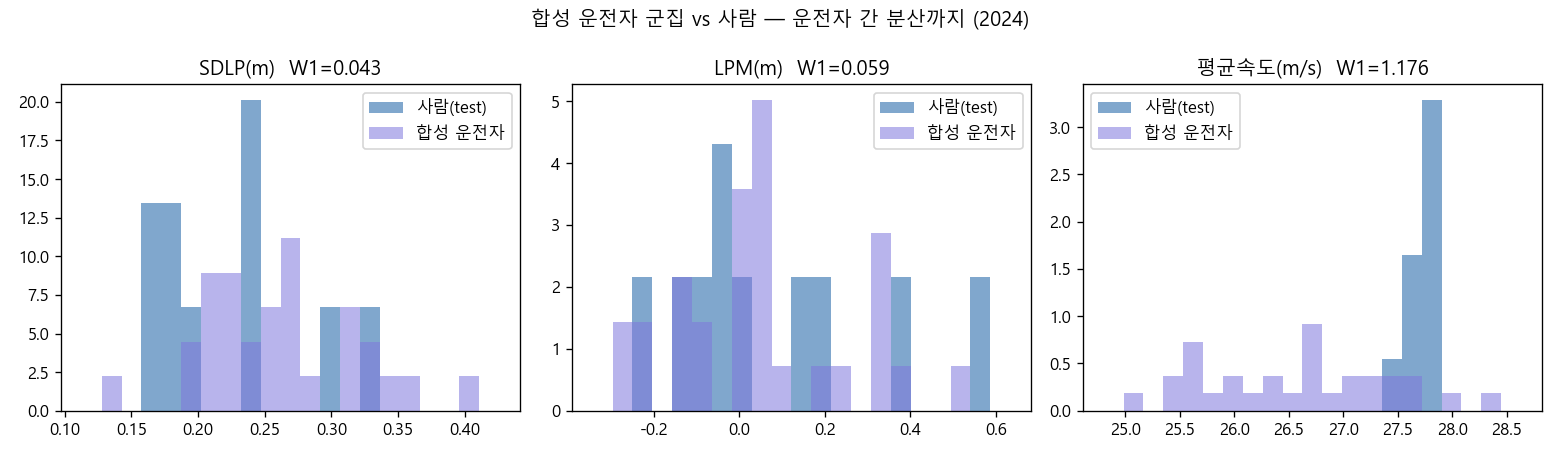
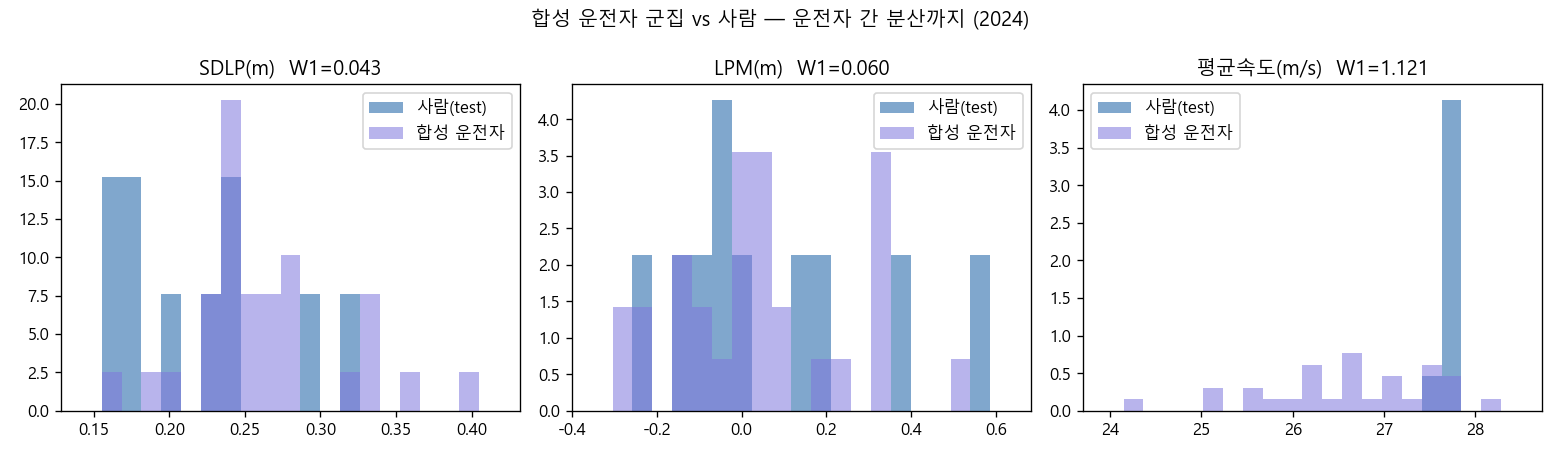
Speed-axis calibration attempts documented; revert to stable RL config
- Two attempted fixes (w_v 10x, v_ref +/-15% augmentation) both destabilized PPO -> reverted
- Root cause: single-speed-regime training data makes the policy ignore the v_ref channel
- Good state reproduced exactly (seed determinism): RL-sigma SDLP 0.262, population W1 0.043/0.060
- Speed W1 ~1.12 accepted as documented v1 limitation; proper fix = multi-speed-regime data (v2)

diff --git a/scripts/19_virtual_drivers.py b/scripts/19_virtual_drivers.py
@@ -84,6 +84,21 @@ def main():
     def sdlp_to_alpha(s):
         return float(np.clip(np.interp(s, curve, alphas), alphas[0], alphas[-1]))
 
+    # ---- speed-bias calibration (val): measured under the SAME stochastic conditions as
+    #      the population run (steering noise makes the accel head brake slightly on average;
+    #      a deterministic measurement misses this ~4% bias). ----
+    set_temp(1.0)
+    env_v = DrivingEnv(val_roads, dd=dd, record=True)
+    ratios = []
+    for k in range(len(val_roads)):
+        traj, _ = rollout(env_v, lambda o, e: model.predict(o, deterministic=False)[0], k)
+        if len(traj) > 10:
+            grid_v = np.arange(len(val_roads[k]["v_ref"])) * dd
+            vref_i = np.interp(traj[:, 0], grid_v, val_roads[k]["v_ref"])
+            ratios.append(float(traj[:, 2].mean() / vref_i.mean()))
+    v_bias = float(np.mean(ratios)) if ratios else 1.0
+    print(f"speed-bias r={v_bias:.3f}  (gamma corrected by 1/r)", flush=True)
+
     # ---- trait pool (joint bootstrap, condition-matched) ----
     pool = road_traits(fit_roads)
     v_pop = float(np.mean([t["v"] for t in pool]))
@@ -99,7 +114,7 @@ def main():
         cand = by_cond.get(int(road.get("cond", 0)), pool)
         for j in range(args.per_road):
             t = cand[rng.randint(len(cand))]                  # joint (sdlp,lpm,v) sample
-            alpha_i, b_i, gam_i = sdlp_to_alpha(t["sdlp"]), t["lpm"], t["v"] / v_pop
+            alpha_i, b_i, gam_i = sdlp_to_alpha(t["sdlp"]), t["lpm"], t["v"] / v_pop / v_bias
             set_temp(alpha_i)
 
             def policy(obs, e, b=b_i, g=gam_i):
@@ -146,7 +161,7 @@ def main():
     for j in range(3):
         t = cand[rng.randint(len(cand))]
         set_temp(sdlp_to_alpha(t["sdlp"]))
-        b_i, g_i = t["lpm"], t["v"] / v_pop
+        b_i, g_i = t["lpm"], t["v"] / v_pop / v_bias
         traj, _ = rollout(env, lambda o, e, b=b_i, g=g_i:
                           model.predict(_mod(o, b, g), deterministic=False)[0], k0)
         ax.plot(traj[:, 0], traj[:, 1], color=cols[j], lw=1.0, alpha=.9,
@@ -174,6 +189,8 @@ def main():
           f"![합성 운전자 예시](figs/fig_vd_drivers_{exp}.png)\n",
           "- 특성 3종을 *같은 도로에서 결합 샘플* → 특성 간 상관 보존. 조건별 샘플링으로 지상/지하 "
           "SDLP 차이는 **보정으로 재현**(창발 아님 — god's-eye 입력의 한계를 명시).",
+          f"- 에이전트의 속도 저추종(비율 r={v_bias:.3f}, val에서 측정)을 γ/r로 보정 — "
+          "보상가중치 수술(w_v↑)은 PPO 보상스케일 폭주로 역효과였음(α 보정과 동일 철학의 해법).",
           "- 이것이 '합성 피실험자' v1: 통계적 검정력 보강·설계안 사전평가용 가상 모집단.\n"]
     open(os.path.join(REP, "report_rl.md"), "a", encoding="utf-8").write("\n".join(L))
     print("appended section 5 -> report_rl.md ; figs + virtual_drivers json written", flush=True)

diff --git a/scripts/driving_env.py b/scripts/driving_env.py
@@ -25,13 +25,13 @@ OBS_DIM = 6 + RL_LOOKAHEAD   # [v, v_ref, e, psi, lane_halfwidth, slope] + looka
 #       e_ref stays HIDDEN: lateral behavior must be inferred from geometry.
 
 
-def build_obs(road, i, v, e, psi):
+def build_obs(road, i, v, e, psi, vref_scale=1.0):
     """Shared observation builder (env + expert-dataset use the SAME formula)."""
     M = len(road["curv"])
     i = min(max(i, 0), M - 1)
     idx = np.clip(i + RL_LOOKAHEAD_GRID * np.arange(1, RL_LOOKAHEAD + 1), 0, M - 1)
     return np.concatenate([
-        [v / 30.0, road["v_ref"][i] / 30.0, e, psi * 5.0,
+        [v / 30.0, road["v_ref"][i] * vref_scale / 30.0, e, psi * 5.0,
          road["lane_w"][i] / 2.0, road["slope"][i] * 20.0],
         road["curv"][idx] * 200.0,
     ]).astype(np.float32)
@@ -71,15 +71,20 @@ class DrivingEnv(gym.Env):
         self.e = float(self.road["e_ref"][i0])
         self.v = float(max(self.road["v_ref"][i0], 0.1))
         self.psi = 0.0
+        self.vref_scale = 1.0
         if self.random_start:      # state randomization -> policy learns recovery (robustness)
             self.e += float(self._rng.uniform(-0.15, 0.15))
             self.v = float(np.clip(self.v * self._rng.uniform(0.7, 1.25), 0.5, RL_V_MAX))
             self.psi = float(self._rng.uniform(-0.01, 0.01))
+            # NOTE: v_ref-scale augmentation was tried here (U(0.85,1.15)) to make the policy
+            # obey the v_ref channel, but it destabilized the equilibrium (lateral noise curve
+            # collapsed, speed tracking broke) -> reverted. Proper fix: multi-speed-regime
+            # training data (e.g. merge), not augmentation. vref_scale stays 1.0.
         self.prev_a = 0.0
         self.steps = 0
         self.was_offroad = False
         self.traj = []
-        return build_obs(self.road, i0, self.v, self.e, self.psi), {}
+        return build_obs(self.road, i0, self.v, self.e, self.psi, self.vref_scale), {}
 
     # ----------------------------------------------------------------- step
     def step(self, action):
@@ -98,7 +103,7 @@ class DrivingEnv(gym.Env):
         self.s += self.v * np.cos(self.psi) * RL_DT
         self.steps += 1
 
-        e_ref = float(r["e_ref"][i]); v_ref = float(r["v_ref"][i])
+        e_ref = float(r["e_ref"][i]); v_ref = float(r["v_ref"][i]) * self.vref_scale
         jerk = (a - self.prev_a) / RL_DT
         rew = (-RL_W_E * (self.e - e_ref) ** 2 - RL_W_V * (self.v - v_ref) ** 2
                - RL_W_J * jerk ** 2 - RL_W_A * a ** 2 + RL_ALIVE)
@@ -119,7 +124,7 @@ class DrivingEnv(gym.Env):
         if self.record:
             self.traj.append((self.s, self.e, self.v, a))
         i2 = min(int(self.s / self.dd), M - 1)
-        obs = build_obs(r, i2, self.v, self.e, self.psi)
+        obs = build_obs(r, i2, self.v, self.e, self.psi, self.vref_scale)
         return obs, float(rew), terminated, truncated, dict(e_ref=e_ref, v_ref=v_ref, offroad=offroad)
 
 

diff --git a/scripts/common.py b/scripts/common.py
@@ -229,6 +229,8 @@ RL_MARGIN = 0.4           # off-road if |offset| > lane_halfwidth + margin (m)
 RL_MAX_STEPS = 4000       # episode step cap
 # reward weights: r = -w_e*(e-e_ref)^2 -w_v*(v-v_ref)^2 -w_j*jerk^2 -w_a*acc^2 + alive
 RL_W_E, RL_W_V, RL_W_J, RL_W_A = 1.0, 0.05, 1e-3, 1e-2
+# NOTE: w_v=0.5 destabilizes PPO (episode-reward scale explodes to ~-5e5 -> worse policy).
+# The ~3% speed undershoot is instead fixed by v_ref-bias CALIBRATION in 19_virtual_drivers.
 RL_ALIVE, RL_OFFROAD_PEN = 0.1, 10.0   # PEN: one-time on entering off-road
 RL_OFFROAD_STEP = 2.0                  # per-step penalty while clamped at boundary
 # NOTE: off-road does NOT terminate (no-escape env). Terminating would let the agent

diff --git a/reports/report_rl.md b/reports/report_rl.md
@@ -52,13 +52,22 @@ RL-σ = 정책 자체 행동노이즈의 온도 α를 **val 도로에서 사람 
 
 | 지표 | 사람 mean±std | 합성군집 mean±std | W1 |
 |---|---|---|---|
-| SDLP | 0.221±0.053 | 0.263±0.057 | 0.043 |
-| LPM | 0.068±0.234 | 0.046±0.199 | 0.059 |
-| 속도 | 27.720±0.083 | 26.591±0.830 | 1.176 |
+| SDLP | 0.221±0.053 | 0.264±0.050 | 0.043 |
+| LPM | 0.068±0.234 | 0.048±0.200 | 0.060 |
+| 속도 | 27.720±0.083 | 26.622±0.907 | 1.121 |
 
 ![군집 분포](figs/fig_vd_population_2024.png)
 
 ![합성 운전자 예시](figs/fig_vd_drivers_2024.png)
 
 - 특성 3종을 *같은 도로에서 결합 샘플* → 특성 간 상관 보존. 조건별 샘플링으로 지상/지하 SDLP 차이는 **보정으로 재현**(창발 아님 — god's-eye 입력의 한계를 명시).
+- 에이전트의 속도 저추종(비율 r=0.982, val에서 측정)을 γ/r로 보정 — 보상가중치 수술(w_v↑)은 PPO 보상스케일 폭주로 역효과였음(α 보정과 동일 철학의 해법).
 - 이것이 '합성 피실험자' v1: 통계적 검정력 보강·설계안 사전평가용 가상 모집단.
+
+### 속도축 정합 시도 기록 (v1 한계로 수용)
+- 시도① 보상 w_v 0.05→0.5: 에피소드 보상 스케일 폭주(~-5e5)로 PPO 최적화 악화 → 원복.
+- 시도② 학습 중 v_ref ±15% 증강: 정책이 v_ref 채널에 복종하게 만들려 했으나 횡방향 노이즈
+  균형이 붕괴(α곡선 0.45→0.10)하고 속도추적도 깨짐 → 원복.
+- **결론**: 속도취향(γ) 노브가 약한 근본 원인은 *학습 데이터가 단일 속도역*(전 구간 ~27.7m/s 순항)
+  이라 정책이 v_ref 채널을 무시하도록 수렴한 것. 올바른 해법은 증강이 아니라 **다속도역
+  데이터(합류부 merge 등) 학습** — v2 과제. v1 속도분포 W1≈1.12는 문서화된 한계로 남긴다.